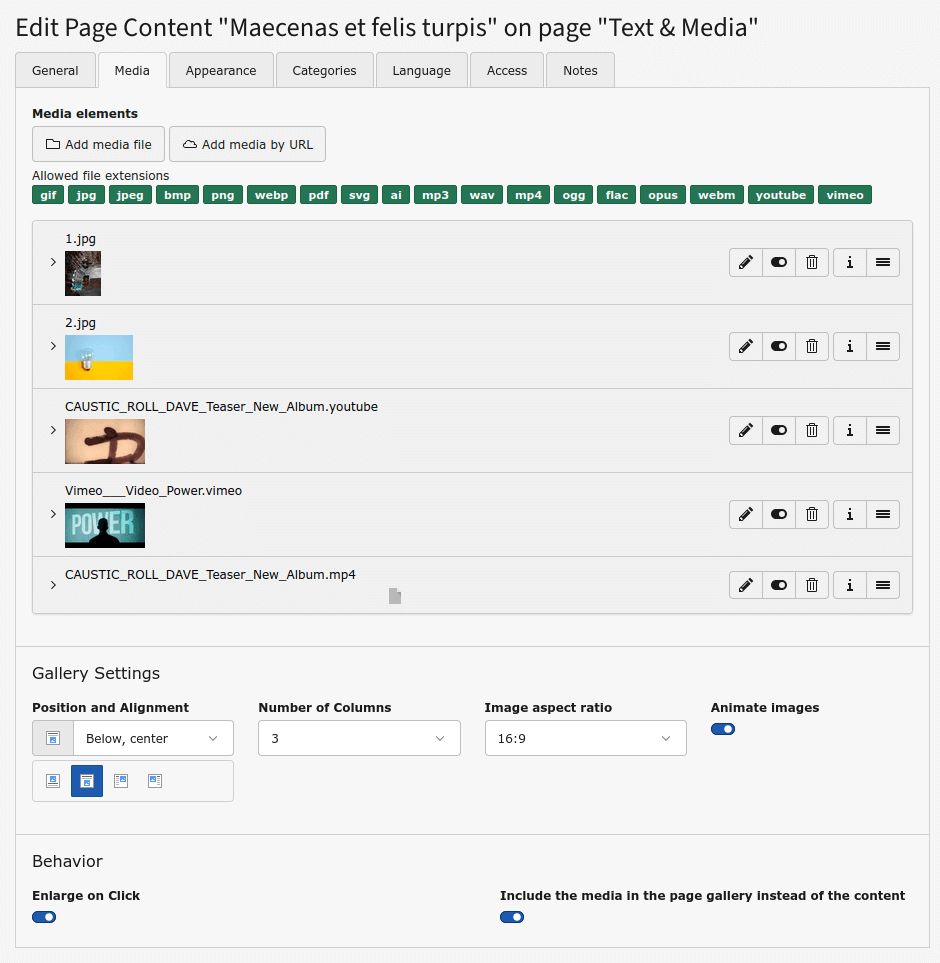
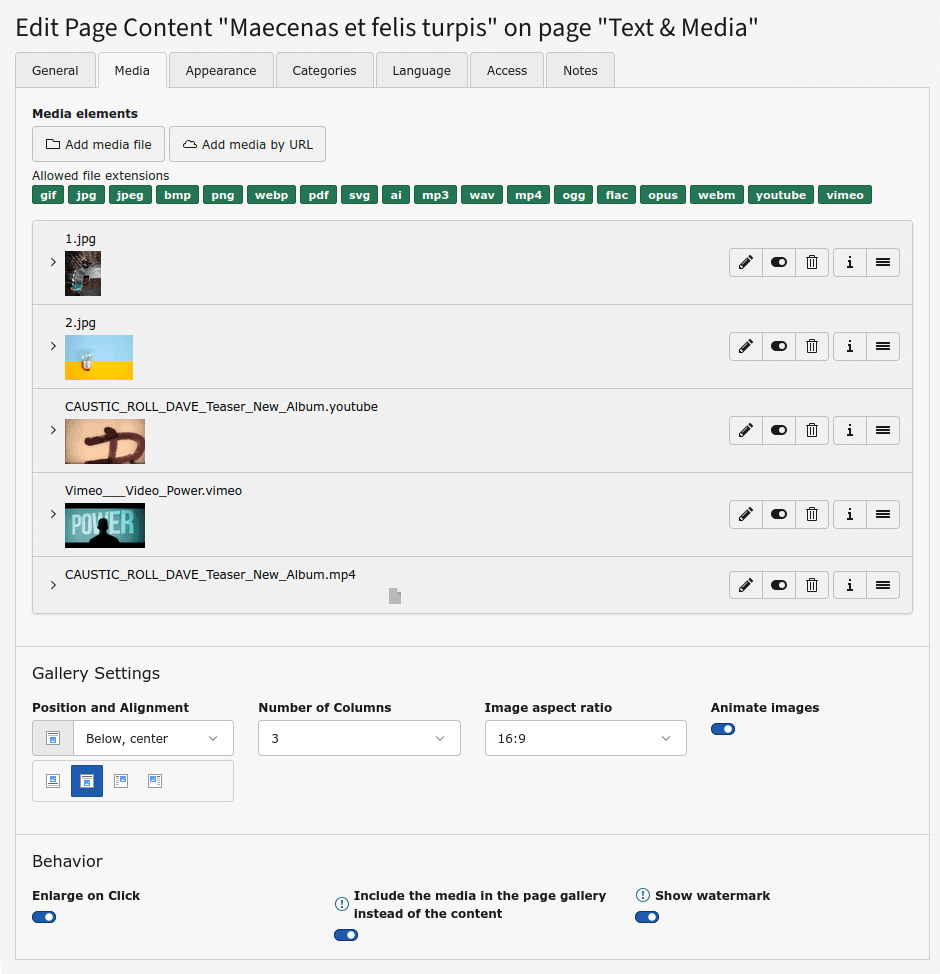
[TASK] Update documnentation

diff --git a/Documentation/EditorsManual/Typo3ContentElements.rst b/Documentation/EditorsManual/Typo3ContentElements.rst
@@ -59,7 +59,11 @@ Text & Media
 
 The **Text & Media** content element has been enhanced to handle properly images and video galleries, making them fully responsive. It's possible to select the width of the gallery when beside text and the aspect ratio of the thumbnails, so all thumbnails are shown in a consistent grid. YouTube and Vimeo thumbnails are retrieved from their servers and stored locally, so no user information is sent to their servers.
 
-The palette *Behavior* in the :guilabel:`Media` tab has a new field, *Include the media in the page gallery instead of the content*, to force the media of the content element to be part of a global page gallery if enlarged.
+The palette *Behavior* in the :guilabel:`Media` tab has two new fields:
+
+* *Include the media in the page gallery instead of the content*: to force the media of the content element to be part of a global page gallery if enlarged.
+
+* *Show watermark*: to show a watermark on the images (thumbnails and full-size). The watermark has to be configured in the home page.
 
 .. figure:: ../Images/typo3ce-4.png
    :width: 940px

diff --git a/Documentation/QuickStart.rst b/Documentation/QuickStart.rst
@@ -15,6 +15,7 @@ Once **Das** has been installed the TYPO3 instance is ready to go, with the page
 * *Show language selector*: to show, well, the language selector in the header
 * *Show breadcrumb:* to enable the breadcrumb, to be shown before or after the Featured content area
 * *Breadcrumb items separator*: to set the character to be used as item separator in the breadcrumb
+* *Watermark*: a palette to configure a watermark to be shown in the images of the Text & Media content elements, with the image to be used and its position, size and opacity. It has to be enabled on each Text & Media content element
 
 .. figure:: ./Images/quick-start-1.png
    :width: 1176px
